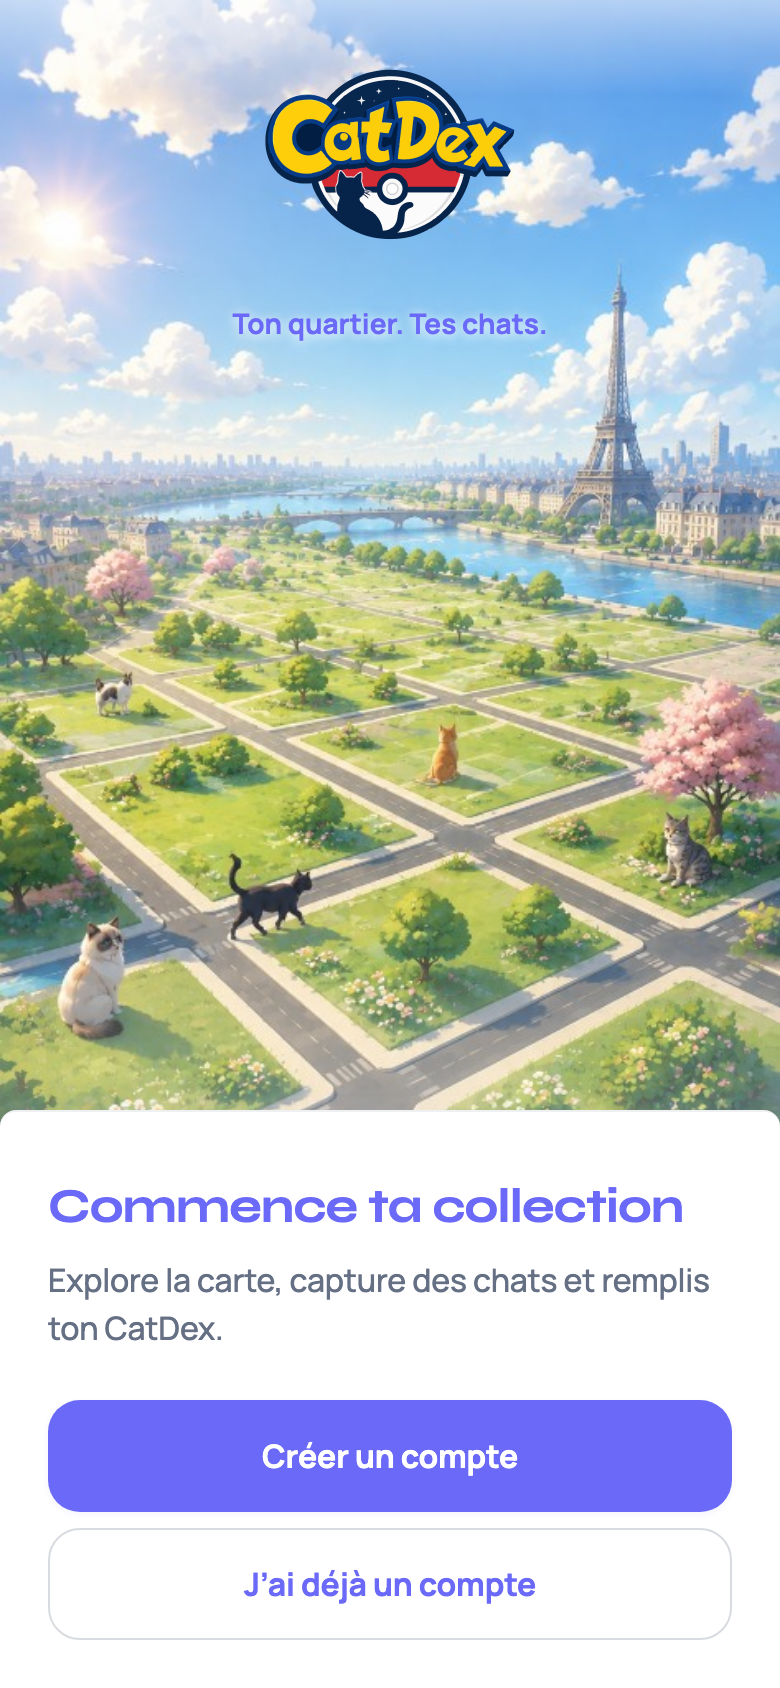
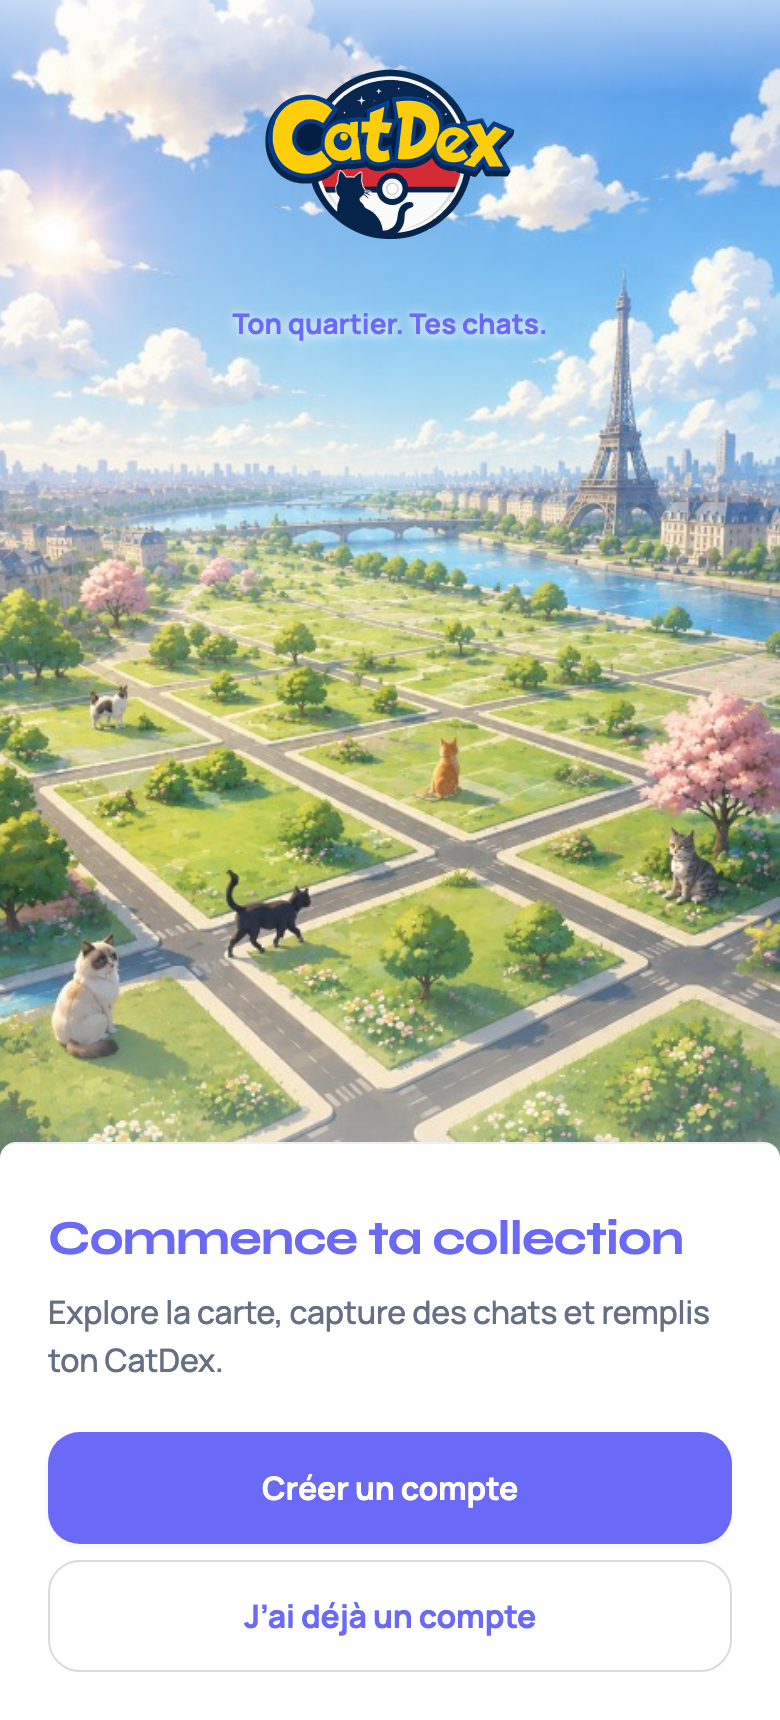
chore(screenshots): full-height export and refreshed captures
Capture complete scrollable screen height instead of iPhone viewport crop.

diff --git a/screenshots/index.html b/screenshots/index.html
@@ -18,7 +18,7 @@
 </head>
 <body>
   <h1>CatDex — export screenshots</h1>
-  <p>15 écrans · 390×844@2 · 2026-08-05T23:26:47.916Z</p>
+  <p>15 écrans · largeur 390px · hauteur complète (full page) @2x · 2026-08-05T23:49:37.410Z</p>
   <div class="grid">
     <figure>
       <img src="app/01-welcome.png" alt="Welcome" />
